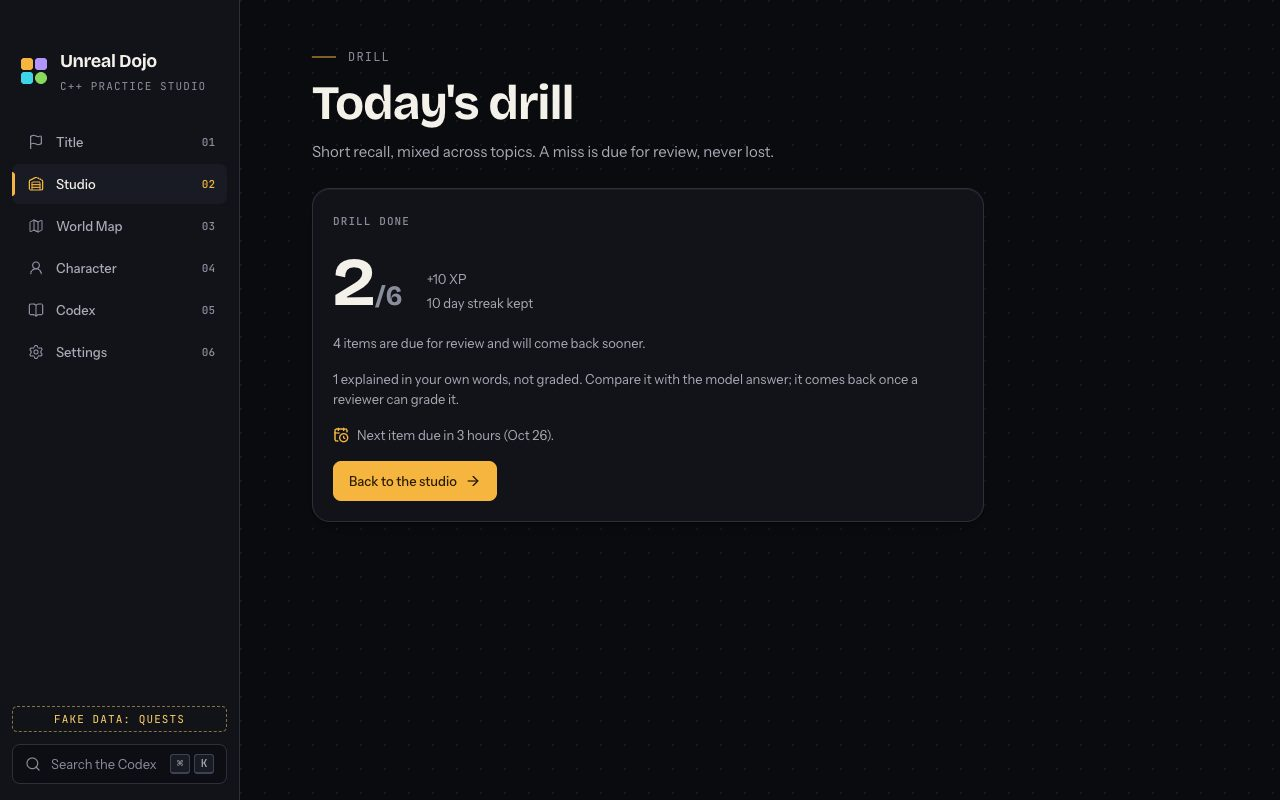
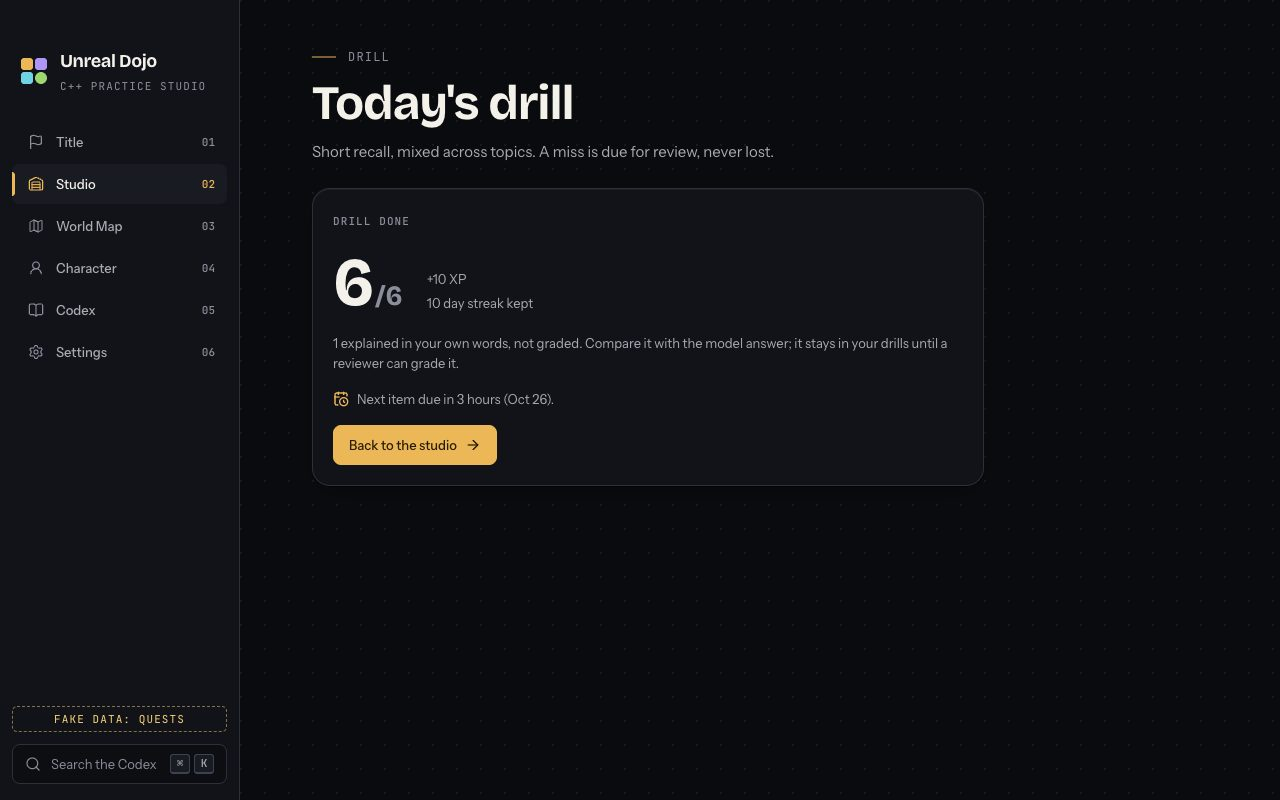
M2.2c: e2e run after M0.1b; re-shot the self-checked drill pictures
- Rebased on main 3175628 (hidden test windows).
- test:e2e run once with hidden windows: 30 passed, 1 skipped (opt-in real
  engine flow), including the all-right Tests-only drill (6/6, no due line,
  the self-checked line).
- Re-shot m2-2-drill-summary-self-checked.jpg and
  m2-2-drill-explain-self-checked.jpg; iterations entry updated.

Changed region(s): [[0.25, 0.4062, 0.75, 0.6562], [0.25, 0.3438, 0.3125, 0.375], [0.0, 0.0938, 0.0312, 0.125]]

diff --git a/docs/iterations.md b/docs/iterations.md
@@ -1481,12 +1481,12 @@ What to look for: anything confusing, slow, or wrong. Note the step number for e
 *With Tests only: the explain item is not graded and not scheduled.*
 
 ![[m2-2-drill-summary-self-checked.jpg|800]]
-*The finish card counts only graded items and names the self-checked one on its own line (taken before fix round 1; to be re-shot with every graded item right once e2e can run again, A77).*
+*Every graded item right: the finish card reads 6/6, says nothing is due, and names the self-checked item on its own line (the M2.4 case).*
 
 - Decisions made: A940 to A942.
 
 ### Fix round 1
 - What the reviewer asked for: the finish card said self-checked items "come back once a reviewer can grade them", but they stay in every drill; the sample data paid XP and could test a world out for a drill with nothing graded; and no screen proved the original bug's case, every graded item right with nothing due.
 - What changed: the line now says the item "stays in your drills until a reviewer can grade it". The sample data pays and tests out only when at least one answer was graded, as the real app does. The Tests-only end-to-end flow now answers every graded item right and checks the score reads 6/6, no "due for review" line, and the self-checked line.
-- Proof (rebased on main e931972): `npm run typecheck` passes; `npm test` 76 files, 915 passed, 24 skipped. **e2e pending: hidden test windows (A77).** The new e2e test is written but not run, by the Lead's instruction while test windows still take over the screen; it will run once M0.1b lands, and the summary picture will be re-shot then.
+- Proof (rebased on main e931972): `npm run typecheck` passes; `npm test` 76 files, 915 passed, 24 skipped. After M0.1b (hidden test windows) landed and a rebase onto main 3175628: `npm test` 77 files, 919 passed, 24 skipped; `npm run build` passes; `npm run test:e2e` 30 passed and 1 skipped (the opt-in real-engine learner flow), run once with hidden windows, including the new all-right Tests-only test; the two self-checked pictures were re-shot from it.
 - Decisions made: A943 and A944.
